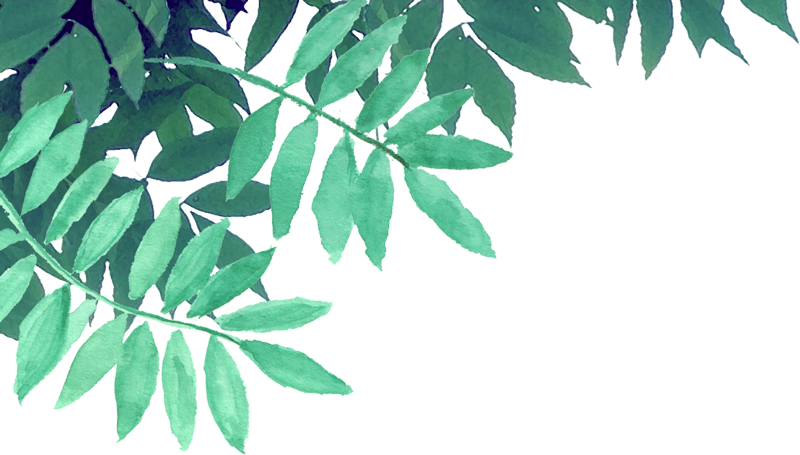
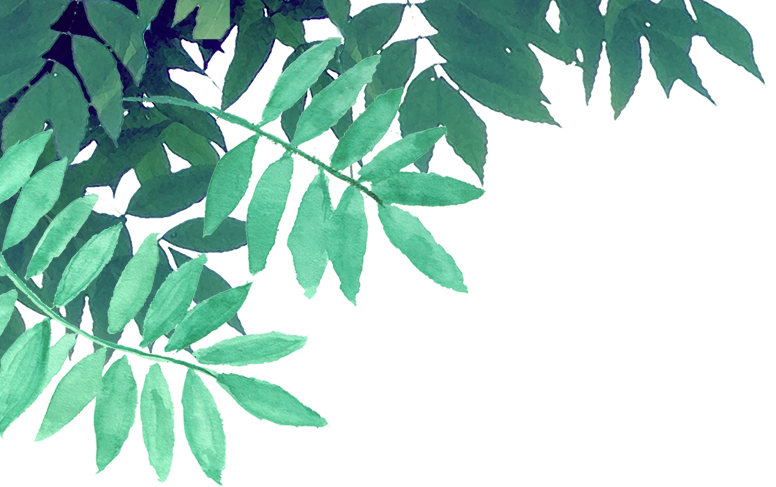
Update bg and assets

diff --git a/app/styles/layout/_layout.scss b/app/styles/layout/_layout.scss
@@ -16,7 +16,7 @@ html {
 	// background-image: url(../images/2015/bg-skies.jpg);
 	// background-repeat: repeat-x;
 
-	background-image: url(../images/2015/bg5.jpg);
+	background-image: url(../images/2015/bg6.jpg);
 	background-repeat: no-repeat;
 	background-size: cover;
 	background-size: 120% 120%;
@@ -166,13 +166,15 @@ body {
 .BgBottom {
 	position: fixed;
 	z-index: -1;
-	bottom: -11%;
+	bottom: -12%;
 	left: 0;
 	right: 0;
 	text-align: center;
-
+	@media (min-width: $layout-m) {
+		bottom: -10%;
+	}
 	@media (min-width: $layout-l) {
-		bottom: -15%;
+		bottom: -17%;
 	}
 
 	img {
@@ -180,22 +182,21 @@ body {
 	}
 }
 
-.BgTopLeft {
+.BgTopLeft,
+.BgTopRight {
 	position: fixed;
 	width: 50%;
 	top: 0;
-	left: 0;
 	z-index: -1;
+}
+.BgTopLeft {
+	left: 0;
 	// background-image: url(..images/2015/bg-topleft.png);
 	// background-repeat: no-repeat;
 	// background-size: ;
 }
 .BgTopRight {
-	position: fixed;
-	width: 50%;
-	top: 0;
 	right: 0;
-	z-index: -1;
 	text-align: right;
 	// background-image: url(..images/2015/bg-topleft.png);
 	// background-repeat: no-repeat;

diff --git a/app/styles/components/_masonry.scss b/app/styles/components/_masonry.scss
@@ -90,7 +90,7 @@ $ml-from: 1700px;
 
 	@for $i from 1 through 30 {
 		&:nth-child(#{$i}){
-			$delay: 1s * $i * 0.08;
+			$delay: 1s * $i * 0.05;
 			transition-delay: $delay;
 		}
 	}
